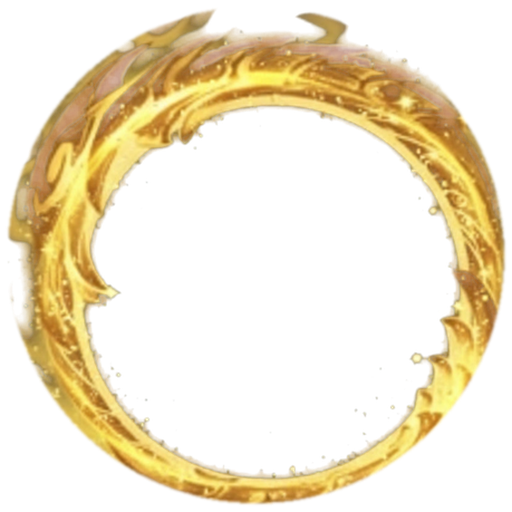
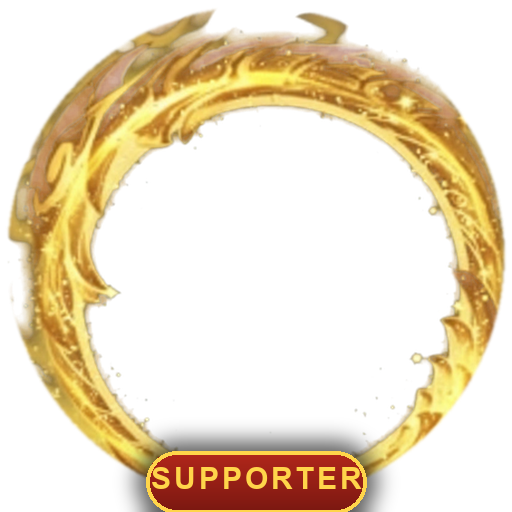
fix(supporter): "SUPPORTER" yazısı artık çerçeve görselinin bir parçası
Ayrı bir DOM etiketi olarak her avatar boyutunda zorla göstermeye
çalışmak yerine, yazı doğrudan frame-supporter.png görseline
(altın rozet plakası) gömüldü. Böylece halka nerede görünüyorsa
yazı da otomatik olarak orada — ayrı CSS boyut/konum kuralına
gerek kalmadı.

Changed region(s): [[0.25, 0.8438, 0.7812, 1.0]]

diff --git a/client/theme.css b/client/theme.css
@@ -1078,29 +1078,11 @@ html.auth-pending #login-screen { visibility: hidden; }
   border-radius: 50%; background: radial-gradient(circle, #fff8dc 0%, rgba(255, 233, 170, .65) 45%, transparent 72%);
   filter: blur(1.5px);
 }
-.frame-supporter-tag {
-  position: absolute; left: 50%; top: 100%; transform: translate(-50%, 2px); z-index: 2; pointer-events: none;
-  font-size: 6.5px; font-weight: 800; letter-spacing: .1em; white-space: nowrap;
-  padding: 1.5px 6px 1px; border-radius: 999px;
-  color: #ffd54a; background: linear-gradient(180deg, #b3271b, #7a1811);
-  box-shadow: 0 0 0 1px rgba(255, 213, 74, .5), 0 1px 3px rgba(0,0,0,.45);
-  animation: sfTagGlow 2.4s ease-in-out infinite;
-}
-/* Etiket sadece büyük profil görünümlerinde (profil penceresi, Market kartı) gösterilir — mesaj/üye/arkadaş/
-   sesli oda gibi küçük avatarlarda halka görünür ama "SUPPORTER" yazısı sığmayacağı için gizli kalır. */
-/* Küçük avatarlarda (ray, üst çubuk, mesaj/üye/arkadaş listeleri) da görünür — profile tıklamak gerekmiyor. */
-.rail-avatar .frame-supporter-tag, .profile-avatar-wrap-sm .frame-supporter-tag, .msg-avatar-frame-wrap .frame-supporter-tag,
-.friends-fav-avatar .frame-supporter-tag, .friends-sidebar-avatar-wrap .frame-supporter-tag {
-  font-size: 4.2px; padding: 1px 3px 0.5px; letter-spacing: .04em;
-}
 @keyframes sfSpin { from { transform: rotate(0deg); } to { transform: rotate(360deg); } }
 @keyframes sfGlowPulse { 0%, 100% { opacity: .5; } 50% { opacity: 1; } }
-@keyframes sfTagGlow {
-  0%, 100% { opacity: .85; } 50% { opacity: 1; }
-}
 @media (prefers-reduced-motion: reduce) {
   .frame-ocean::after, .frame-neon::after, .frame-galaxy::after,
-  .sf-overlay::before, .sf-highlight, .frame-supporter-tag { animation: none; }
+  .sf-overlay::before, .sf-highlight { animation: none; }
 }
 
 /* ── Market ürün kartları (gift.html'e benzer sade sayfa stiline eklenir) */

diff --git a/client/script.js b/client/script.js
@@ -1735,7 +1735,7 @@ function supporterFrameOverlayHtml() {
     return `<span class="sf-overlay" aria-hidden="true">
         <img src="assets/frame-supporter.png" class="sf-ring-img" alt="">
         <span class="sf-highlight"></span>
-    </span><span class="frame-supporter-tag">SUPPORTER</span>`;
+    </span>`;
 }
 
 const AVATAR_FRAME_CLASSES = ['frame-ocean', 'frame-neon', 'frame-galaxy', 'frame-supporter'];
@@ -1753,9 +1753,7 @@ function plusBadgeHtml(isPlus) {
 function applyAvatarFrame(el, frameKey) {
     if (!el) return;
     AVATAR_FRAME_CLASSES.forEach((c) => el.classList.remove(c));
-    const old = el.querySelector(':scope > .sf-overlay, :scope > .frame-supporter-tag');
-    if (old) old.remove();
-    el.querySelectorAll(':scope > .sf-overlay, :scope > .frame-supporter-tag').forEach((n) => n.remove());
+    el.querySelectorAll(':scope > .sf-overlay').forEach((n) => n.remove());
     if (frameKey && frameKey !== 'classic') {
         el.classList.add('frame-' + frameKey);
         if (frameKey === 'supporter') el.insertAdjacentHTML('beforeend', supporterFrameOverlayHtml());
